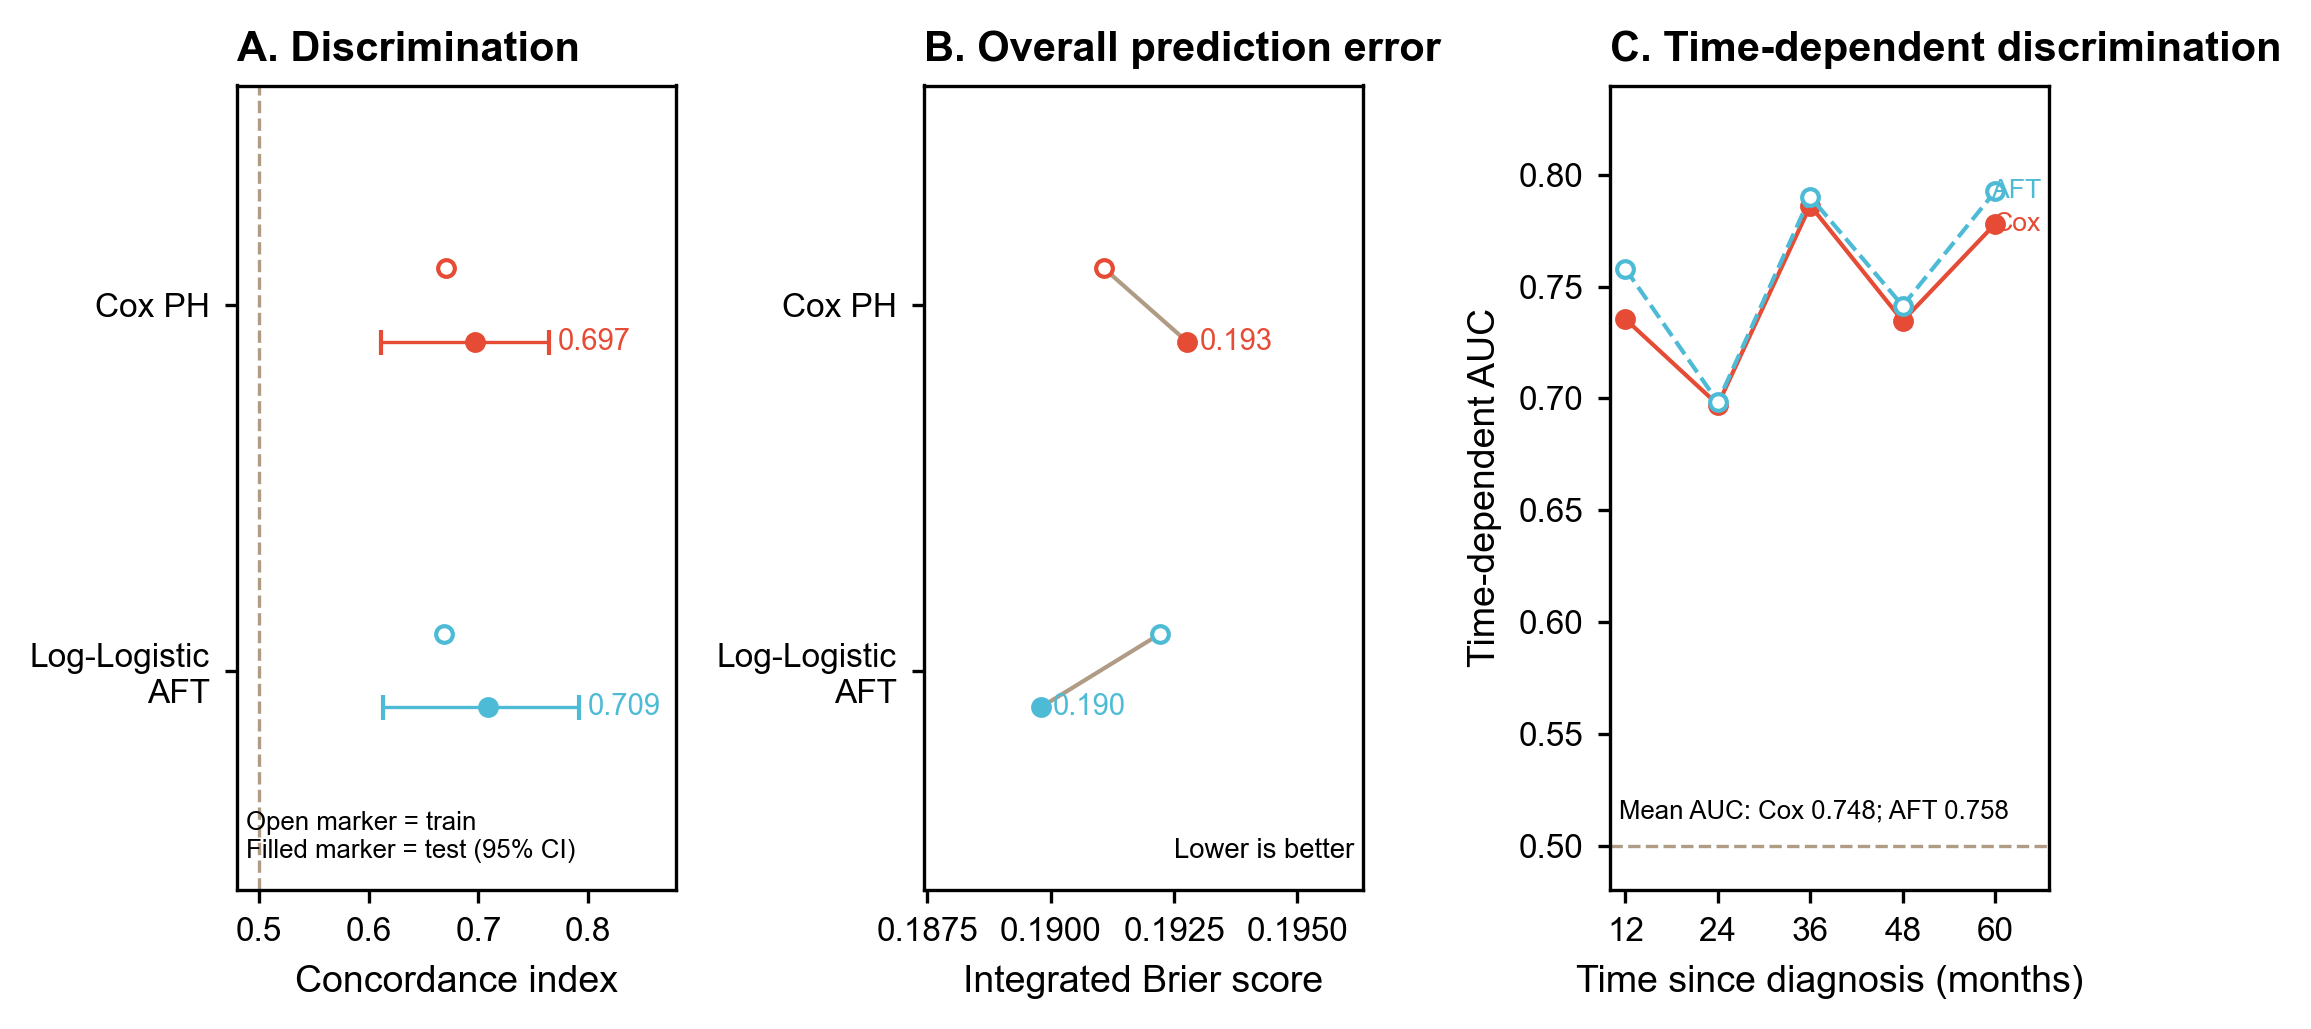
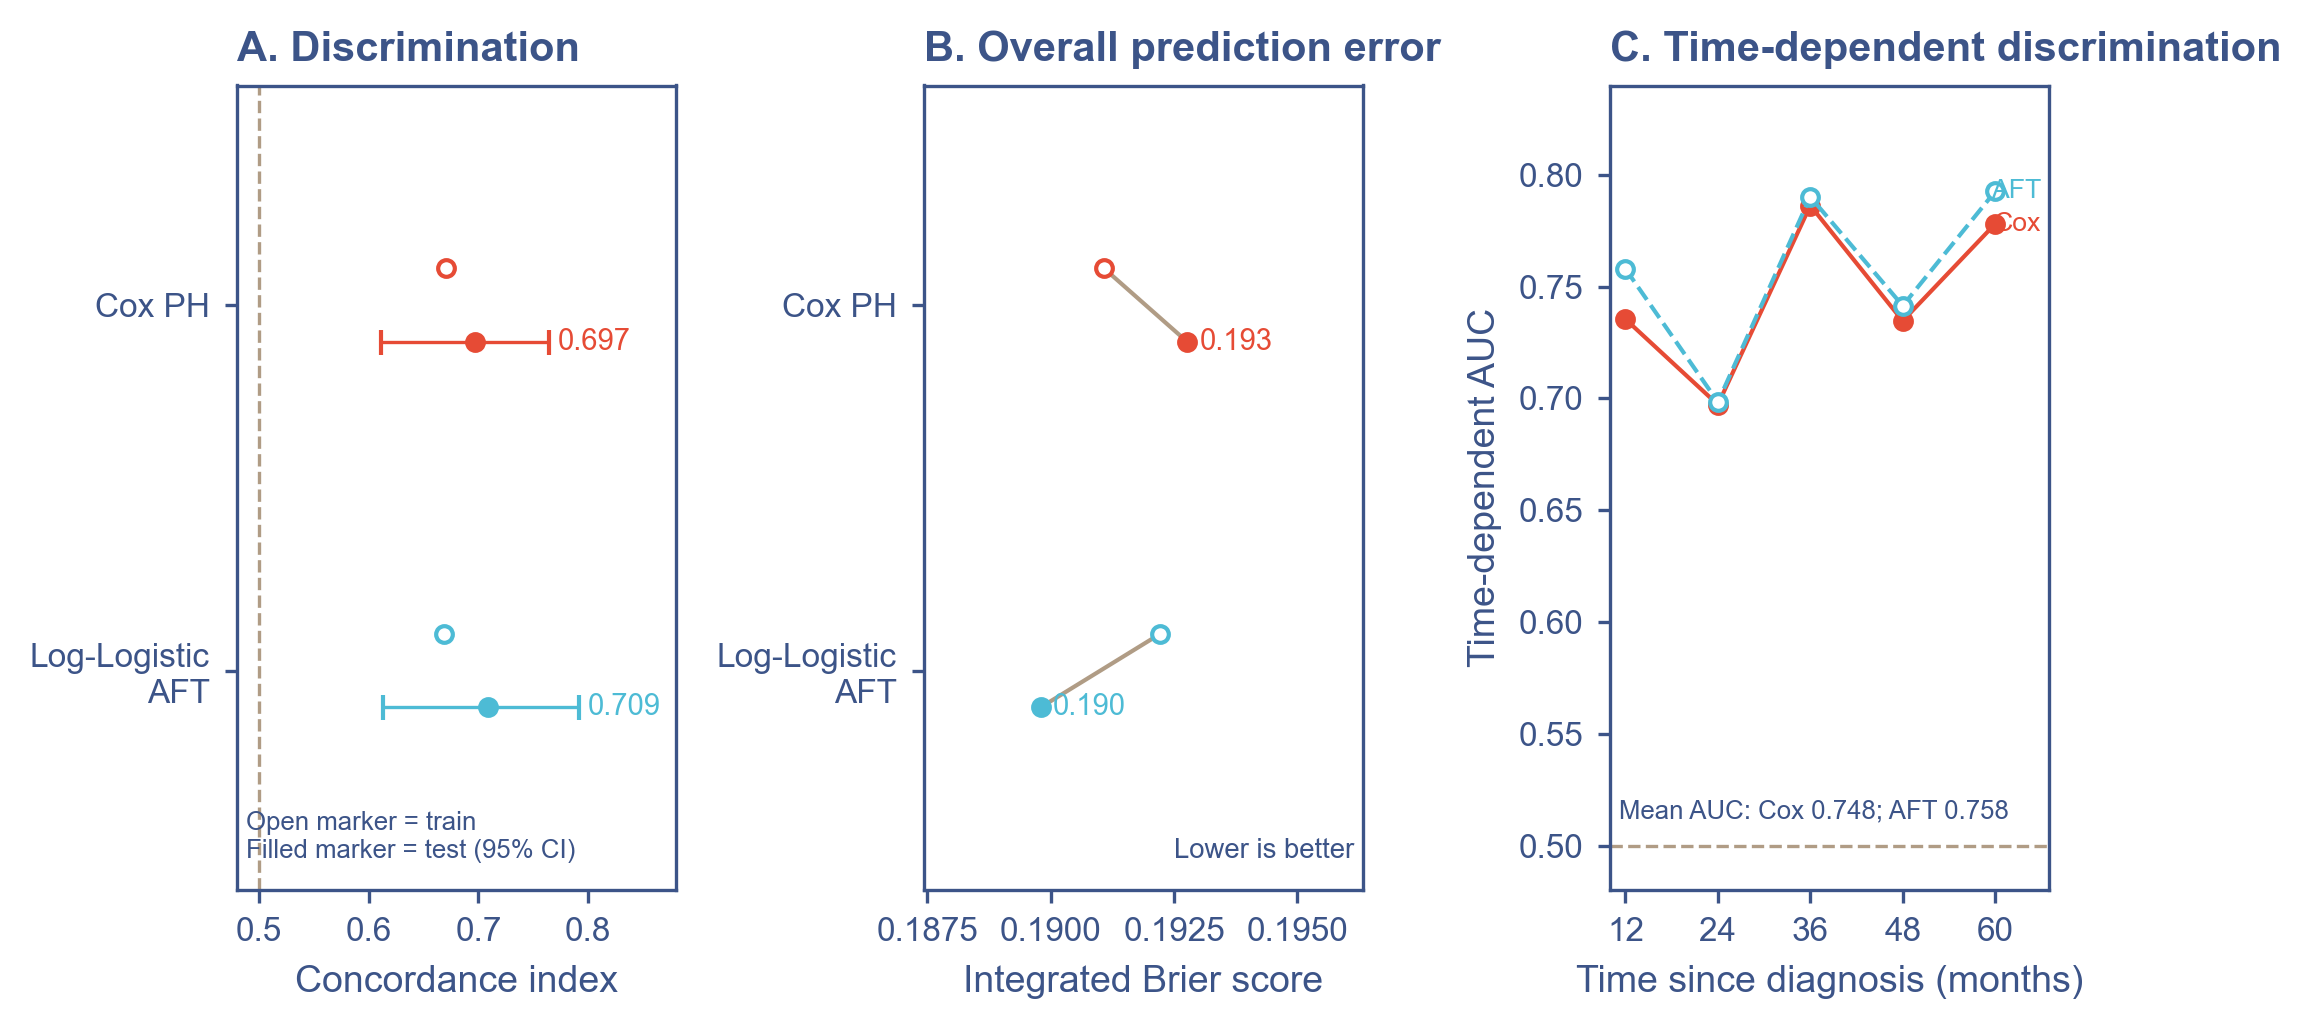
Unify README figure color styling

diff --git a/generate_readme_figures.py b/generate_readme_figures.py
@@ -32,6 +32,24 @@ CELL_COLORS = [
     "#8491B4", "#91D1C2", "#DC0000", "#7E6148", "#B09C85",
 ]
 
+PRIMARY_COLOR = CELL_COLORS[0]
+SECONDARY_COLOR = CELL_COLORS[1]
+TERTIARY_COLOR = CELL_COLORS[2]
+TEXT_COLOR = CELL_COLORS[3]
+WARNING_COLOR = CELL_COLORS[4]
+REFERENCE_COLOR = CELL_COLORS[9]
+FIT_COLORS = [SECONDARY_COLOR, TERTIARY_COLOR, TEXT_COLOR, WARNING_COLOR]
+
+mpl.rcParams.update({
+    "text.color": TEXT_COLOR,
+    "axes.labelcolor": TEXT_COLOR,
+    "axes.edgecolor": TEXT_COLOR,
+    "xtick.color": TEXT_COLOR,
+    "ytick.color": TEXT_COLOR,
+    "figure.facecolor": "white",
+    "axes.facecolor": "white",
+})
+
 ROOT = Path(__file__).resolve().parent
 BUNDLE_PATH = ROOT / "tcga_luad_app_bundle.pkl"
 ASSET_DIR = ROOT / "assets"
@@ -45,15 +63,20 @@ def _load_bundle() -> dict:
 def _style_axis(ax) -> None:
     for spine in ("top", "right", "bottom", "left"):
         ax.spines[spine].set_visible(True)
+        ax.spines[spine].set_color(TEXT_COLOR)
         ax.spines[spine].set_linewidth(0.8)
-    ax.tick_params(direction="out", length=3, width=0.8)
+    ax.tick_params(
+        direction="out",
+        length=3,
+        width=0.8,
+        colors=TEXT_COLOR,
+    )
     ax.grid(False)
 
 
 def _save_figure(fig, filename: str) -> None:
     ASSET_DIR.mkdir(parents=True, exist_ok=True)
-    plt.figure(fig.number)
-    plt.tight_layout()
+    fig.tight_layout()
     fig.savefig(ASSET_DIR / filename, format="png", dpi=300)
     plt.close(fig)
 
@@ -62,13 +85,13 @@ def _model_performance_figure(bundle: dict) -> None:
     model_rows = [
         {
             "name": "Cox PH",
-            "color": CELL_COLORS[0],
+            "color": PRIMARY_COLOR,
             "train": bundle["tr_cox"],
             "test": bundle["res_cox"],
         },
         {
             "name": f"{bundle['dist']['best']} AFT",
-            "color": CELL_COLORS[1],
+            "color": SECONDARY_COLOR,
             "train": bundle["tr_aft"],
             "test": bundle["res_aft"],
         },
@@ -80,7 +103,7 @@ def _model_performance_figure(bundle: dict) -> None:
 
     ax = axes[0]
     y_positions = np.arange(len(model_rows))[::-1]
-    ax.axvline(0.5, color=CELL_COLORS[9], linewidth=0.8, linestyle="--")
+    ax.axvline(0.5, color=REFERENCE_COLOR, linewidth=0.8, linestyle="--")
     for y_pos, row in zip(y_positions, model_rows):
         test = row["test"]
         test_value = float(test["c_index"])
@@ -139,7 +162,7 @@ def _model_performance_figure(bundle: dict) -> None:
         ax.plot(
             [train_value, test_value],
             [y_pos + 0.10, y_pos - 0.10],
-            color=CELL_COLORS[9],
+            color=REFERENCE_COLOR,
             linewidth=1.0,
         )
         ax.plot(
@@ -210,7 +233,7 @@ def _model_performance_figure(bundle: dict) -> None:
             fontsize=6.4,
             color=row["color"],
         )
-    ax.axhline(0.5, color=CELL_COLORS[9], linewidth=0.8, linestyle="--")
+    ax.axhline(0.5, color=REFERENCE_COLOR, linewidth=0.8, linestyle="--")
     ax.set_xlim(10, 67)
     ax.set_xticks([12, 24, 36, 48, 60])
     ax.set_ylim(0.48, 0.84)
@@ -244,13 +267,13 @@ def _marginal_survival_figure(bundle: dict) -> None:
         km_curve.index.to_numpy(dtype=float),
         km_curve.to_numpy(dtype=float),
         where="post",
-        color=CELL_COLORS[0],
+        color=PRIMARY_COLOR,
         linewidth=1.0,
         label="Kaplan-Meier",
     )
 
     line_styles = ["-", "--", "-.", ":"]
-    for index, (name, line_style) in enumerate(zip(ordered_names, line_styles), start=1):
+    for index, (name, line_style) in enumerate(zip(ordered_names, line_styles)):
         survival = np.asarray(
             fitters[name].survival_function_at_times(time_grid),
             dtype=float,
@@ -259,7 +282,7 @@ def _marginal_survival_figure(bundle: dict) -> None:
         ax.plot(
             time_grid,
             survival,
-            color=CELL_COLORS[index],
+            color=FIT_COLORS[index],
             linewidth=1.0,
             linestyle=line_style,
             label=label,
@@ -279,7 +302,7 @@ def main() -> None:
     bundle = _load_bundle()
     _model_performance_figure(bundle)
     _marginal_survival_figure(bundle)
-    print("README figures regenerated.")
+    print("README figures regenerated with the shared Cell color system.")
 
 
 if __name__ == "__main__":

diff --git a/README.md b/README.md
@@ -91,7 +91,7 @@ Test C-index confidence intervals use 150 bootstrap resamples. Integrated Brier 
 
 ### Model evaluation figures
 
-All figures below are rendered from `tcga_luad_app_bundle.pkl`. No raw clinical feature records are required to reproduce them.
+All figures below are rendered from `tcga_luad_app_bundle.pkl`. No raw clinical feature records are required to reproduce them. They use the shared Cell red/blue/teal palette with navy typography and can be regenerated with `python generate_readme_figures.py`.
 
 #### Discrimination and prediction error
 
@@ -175,6 +175,7 @@ Do not replace the deployment bundle with raw patient-level feature tables.
 |-- app.py                         # Minimal Shiny entry point
 |-- survival_app.py                # Data handling, UI, server, and figures
 |-- survival_core.py               # Survival models and evaluation helpers
+|-- generate_readme_figures.py     # Reproducible README figure generator
 |-- tcga_luad_app_bundle.pkl       # Sanitized model and evaluation bundle
 |-- assets/                        # App preview and model figures for this README
 |-- requirements.txt               # Runtime dependencies